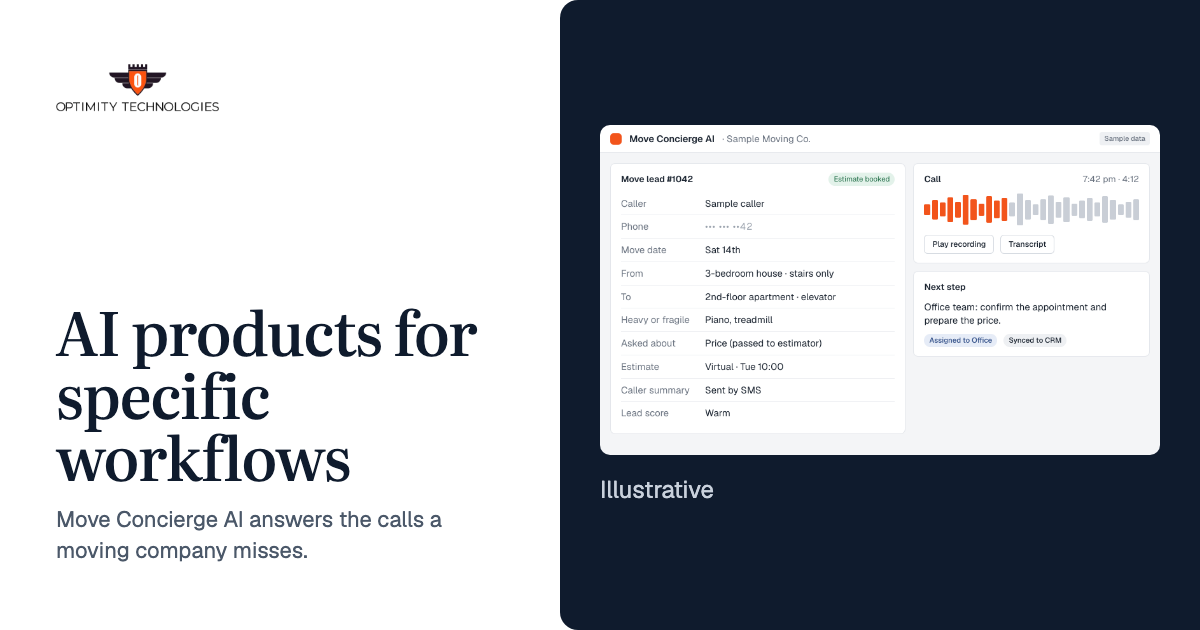
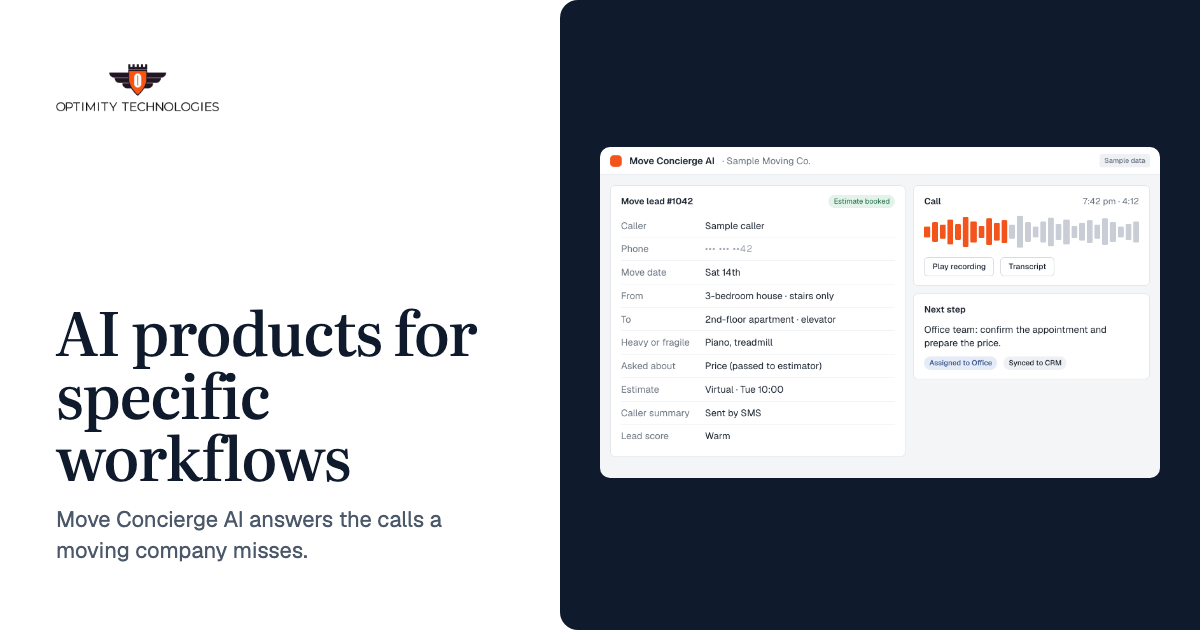
Remove the Illustrative caption from product screens
At Deepak's request. Each sample screen keeps its 'Sample data' tag in
the title bar and its fictional names, and alt text now starts with
'Sample'. DESIGN.md, PLACEHOLDERS.md and llms-full.txt describe the new
labelling; the share image is re-rendered without the caption.

diff --git a/move-concierge.html b/move-concierge.html
@@ -30,7 +30,7 @@
 <link rel="apple-touch-icon" sizes="180x180" href="/apple-touch-icon.png" />
 <link rel="manifest" href="/site.webmanifest" />
 <script>(function(){try{var t=localStorage.getItem("optimity-theme");if(!t&&window.matchMedia&&matchMedia("(prefers-color-scheme: dark)").matches)t="dark";if(t==="dark")document.documentElement.setAttribute("data-theme","dark");}catch(e){}document.documentElement.classList.add("has-js");})();</script>
-<link rel="stylesheet" href="styles.css?v=20261021-p22">
+<link rel="stylesheet" href="styles.css?v=20261021-p23">
 <link rel="alternate" type="text/markdown" title="llms.txt" href="/llms.txt">
 <script type="application/ld+json">
 {
@@ -77,7 +77,7 @@
     <p class="lead"><b>Move Concierge AI<span class="tm">™</span></b> picks up when your team can&rsquo;t: after hours, on weekends and when every line is busy. It takes down the details of the move and passes a complete lead to your staff to follow up.</p>
     <div class="acts"><a class="btn" href="contact.html?demo=move-concierge#book">Book a Move Concierge AI demo</a></div>
   </div>
-  <div class="on-stage"><figure class="shot"><img src="assets/products/placeholders/mc-enquiry-record.png?v=20261021-p22" width="1760" height="1040" alt="Illustrative Move Concierge AI lead record #1042: move date, addresses, access, heavy items, estimate booked for Tuesday 10:00, with the call recording attached." fetchpriority="high" decoding="async"><figcaption>Illustrative</figcaption></figure></div>
+  <div class="on-stage"><figure class="shot"><img src="assets/products/placeholders/mc-enquiry-record.png?v=20261021-p23" width="1760" height="1040" alt="Sample Move Concierge AI lead record #1042: move date, addresses, access, heavy items, estimate booked for Tuesday 10:00, with the call recording attached." fetchpriority="high" decoding="async"></figure></div>
 </header>
 
 <section class="sec facts2" aria-label="Who it is for and the problem">
@@ -96,43 +96,43 @@
     <section class="journey" aria-labelledby="how-h">
       <h2 id="how-h">How it works, from the call to your team</h2>
       <ol class="steps">
-      <li class="step" data-shot="assets/products/placeholders/mc-incoming-call.png?v=20261021-p22" data-alt="Illustrative Move Concierge AI call log for a sample moving company: an after-hours call at 7:42 pm answered by Move Concierge AI." data-cap="Illustrative">
+      <li class="step" data-shot="assets/products/placeholders/mc-incoming-call.png?v=20261021-p23" data-alt="Sample Move Concierge AI call log for a sample moving company: an after-hours call at 7:42 pm answered by Move Concierge AI.">
         <h3>The call comes in</h3>
         <p>On the calls you route to it: after hours, on weekends, or when every line is busy. Callers talk normally and can interrupt.</p>
-        <div class="inline-shot on-stage"><figure class="shot"><img src="assets/products/placeholders/mc-incoming-call.png?v=20261021-p22" width="1440" height="840" alt="Illustrative Move Concierge AI call log for a sample moving company: an after-hours call at 7:42 pm answered by Move Concierge AI." loading="lazy" decoding="async"><figcaption>Illustrative</figcaption></figure></div>
+        <div class="inline-shot on-stage"><figure class="shot"><img src="assets/products/placeholders/mc-incoming-call.png?v=20261021-p23" width="1440" height="840" alt="Sample Move Concierge AI call log for a sample moving company: an after-hours call at 7:42 pm answered by Move Concierge AI." loading="lazy" decoding="async"></figure></div>
       </li>
-      <li class="step" data-shot="assets/products/placeholders/mc-call-transcript.png?v=20261021-p22" data-alt="Illustrative transcript of a sample call: the caller describes a three-bedroom move on the 14th with a piano, and Move Concierge AI offers a virtual estimate instead of quoting a price." data-cap="Illustrative">
+      <li class="step" data-shot="assets/products/placeholders/mc-call-transcript.png?v=20261021-p23" data-alt="Sample transcript of a sample call: the caller describes a three-bedroom move on the 14th with a piano, and Move Concierge AI offers a virtual estimate instead of quoting a price.">
         <h3>It asks about the move</h3>
         <p>Moving date, where from and where to, the size of the home, stairs and elevator access, and large or fragile items such as a piano, artwork, gym equipment or a safe. It doesn&rsquo;t give binding prices or promise dates.</p>
-        <div class="inline-shot on-stage"><figure class="shot"><img src="assets/products/placeholders/mc-call-transcript.png?v=20261021-p22" width="1440" height="800" alt="Illustrative transcript of a sample call: the caller describes a three-bedroom move on the 14th with a piano, and Move Concierge AI offers a virtual estimate instead of quoting a price." loading="lazy" decoding="async"><figcaption>Illustrative</figcaption></figure></div>
+        <div class="inline-shot on-stage"><figure class="shot"><img src="assets/products/placeholders/mc-call-transcript.png?v=20261021-p23" width="1440" height="800" alt="Sample transcript of a sample call: the caller describes a three-bedroom move on the 14th with a piano, and Move Concierge AI offers a virtual estimate instead of quoting a price." loading="lazy" decoding="async"></figure></div>
       </li>
-      <li class="step" data-shot="assets/products/placeholders/mc-enquiry-record.png?v=20261021-p22" data-alt="Illustrative Move Concierge AI lead record #1042: move date, addresses, access, heavy items, estimate booked for Tuesday 10:00, with the call recording attached." data-cap="Illustrative">
+      <li class="step" data-shot="assets/products/placeholders/mc-enquiry-record.png?v=20261021-p23" data-alt="Sample Move Concierge AI lead record #1042: move date, addresses, access, heavy items, estimate booked for Tuesday 10:00, with the call recording attached.">
         <h3>It writes up the lead</h3>
         <p>Contact details and every answer go into one record, with the call recording and transcript attached.</p>
-        <div class="inline-shot on-stage"><figure class="shot"><img src="assets/products/placeholders/mc-enquiry-record.png?v=20261021-p22" width="1760" height="1040" alt="Illustrative Move Concierge AI lead record #1042: move date, addresses, access, heavy items, estimate booked for Tuesday 10:00, with the call recording attached." loading="lazy" decoding="async"><figcaption>Illustrative</figcaption></figure></div>
+        <div class="inline-shot on-stage"><figure class="shot"><img src="assets/products/placeholders/mc-enquiry-record.png?v=20261021-p23" width="1760" height="1040" alt="Sample Move Concierge AI lead record #1042: move date, addresses, access, heavy items, estimate booked for Tuesday 10:00, with the call recording attached." loading="lazy" decoding="async"></figure></div>
       </li>
-      <li class="step" data-shot="assets/products/placeholders/mc-survey-booked.png?v=20261021-p22" data-alt="Illustrative estimator calendar with a virtual estimate booked at 10:00 by Move Concierge AI, and the SMS confirmation sent to the caller." data-cap="Illustrative">
+      <li class="step" data-shot="assets/products/placeholders/mc-survey-booked.png?v=20261021-p23" data-alt="Sample estimator calendar with a virtual estimate booked at 10:00 by Move Concierge AI, and the SMS confirmation sent to the caller.">
         <h3>It books the next step</h3>
         <p>Where you&rsquo;ve set it up, it books a virtual or in-home estimate in your estimators&rsquo; calendar, or schedules a callback, and sends the caller a summary by text message.</p>
-        <div class="inline-shot on-stage"><figure class="shot"><img src="assets/products/placeholders/mc-survey-booked.png?v=20261021-p22" width="1440" height="880" alt="Illustrative estimator calendar with a virtual estimate booked at 10:00 by Move Concierge AI, and the SMS confirmation sent to the caller." loading="lazy" decoding="async"><figcaption>Illustrative</figcaption></figure></div>
+        <div class="inline-shot on-stage"><figure class="shot"><img src="assets/products/placeholders/mc-survey-booked.png?v=20261021-p23" width="1440" height="880" alt="Sample estimator calendar with a virtual estimate booked at 10:00 by Move Concierge AI, and the SMS confirmation sent to the caller." loading="lazy" decoding="async"></figure></div>
       </li>
-      <li class="step" data-shot="assets/products/placeholders/mc-team-handoff.png?v=20261021-p22" data-alt="Illustrative email to the office team with the lead summary and a note that the caller asked about storage, which needs a person." data-cap="Illustrative">
+      <li class="step" data-shot="assets/products/placeholders/mc-team-handoff.png?v=20261021-p23" data-alt="Sample email to the office team with the lead summary and a note that the caller asked about storage, which needs a person.">
         <h3>Your team takes it from there</h3>
         <p>The lead reaches your staff by email or in your moving software or CRM, depending on what we connect at setup. Complaints, unusual requests and anything it can&rsquo;t answer go straight to a person.</p>
-        <div class="inline-shot on-stage"><figure class="shot"><img src="assets/products/placeholders/mc-team-handoff.png?v=20261021-p22" width="1440" height="960" alt="Illustrative email to the office team with the lead summary and a note that the caller asked about storage, which needs a person." loading="lazy" decoding="async"><figcaption>Illustrative</figcaption></figure></div>
+        <div class="inline-shot on-stage"><figure class="shot"><img src="assets/products/placeholders/mc-team-handoff.png?v=20261021-p23" width="1440" height="960" alt="Sample email to the office team with the lead summary and a note that the caller asked about storage, which needs a person." loading="lazy" decoding="async"></figure></div>
       </li>
       </ol>
-      <div class="after step" data-shot="assets/products/placeholders/mc-morning-summary.png?v=20261021-p22" data-alt="Illustrative overnight summary: leads, estimates booked, callbacks due and calls passed to a person, with the list for the morning." data-cap="Illustrative">
+      <div class="after step" data-shot="assets/products/placeholders/mc-morning-summary.png?v=20261021-p23" data-alt="Sample overnight summary: leads, estimates booked, callbacks due and calls passed to a person, with the list for the morning.">
         <h3>What you can see</h3>
         <p>Every call is recorded and transcribed, each lead has a lead score, and a daily summary shows leads, bookings and the callers who still need a call back.</p>
-        <div class="inline-shot on-stage"><figure class="shot"><img src="assets/products/placeholders/mc-morning-summary.png?v=20261021-p22" width="1440" height="920" alt="Illustrative overnight summary: leads, estimates booked, callbacks due and calls passed to a person, with the list for the morning." loading="lazy" decoding="async"><figcaption>Illustrative</figcaption></figure></div>
+        <div class="inline-shot on-stage"><figure class="shot"><img src="assets/products/placeholders/mc-morning-summary.png?v=20261021-p23" width="1440" height="920" alt="Sample overnight summary: leads, estimates booked, callbacks due and calls passed to a person, with the list for the morning." loading="lazy" decoding="async"></figure></div>
         <div class="wont"><b>What it won&rsquo;t do</b>It won&rsquo;t quote a binding price, promise a date or agree to an exception. Those go to your team.</div>
       </div>
       <div class="split-end"></div>
     </section>
   </div>
   <aside class="stage" data-stage aria-label="Product screen for the step you are reading">
-    <figure class="shot"><img src="assets/products/placeholders/mc-incoming-call.png?v=20261021-p22" width="1440" height="840" alt="Illustrative Move Concierge AI call log for a sample moving company: an after-hours call at 7:42 pm answered by Move Concierge AI." loading="lazy" decoding="async"><figcaption>Illustrative</figcaption></figure>
+    <figure class="shot"><img src="assets/products/placeholders/mc-incoming-call.png?v=20261021-p23" width="1440" height="840" alt="Sample Move Concierge AI call log for a sample moving company: an after-hours call at 7:42 pm answered by Move Concierge AI." loading="lazy" decoding="async"></figure>
   </aside>
 </div>
 
@@ -160,8 +160,8 @@
 
 <div id="site-footer"><!--#include virtual="/footer.html" --></div>
 
-<script src="components.js?v=20261021-p22"></script>
-<script src="theme.js?v=20261021-p22"></script>
-<script src="site.js?v=20261021-p22" onerror="document.documentElement.classList.remove('has-js')"></script>
+<script src="components.js?v=20261021-p23"></script>
+<script src="theme.js?v=20261021-p23"></script>
+<script src="site.js?v=20261021-p23" onerror="document.documentElement.classList.remove('has-js')"></script>
 </body>
 </html>

diff --git a/nexus-ai.html b/nexus-ai.html
@@ -30,7 +30,7 @@
 <link rel="apple-touch-icon" sizes="180x180" href="/apple-touch-icon.png" />
 <link rel="manifest" href="/site.webmanifest" />
 <script>(function(){try{var t=localStorage.getItem("optimity-theme");if(!t&&window.matchMedia&&matchMedia("(prefers-color-scheme: dark)").matches)t="dark";if(t==="dark")document.documentElement.setAttribute("data-theme","dark");}catch(e){}document.documentElement.classList.add("has-js");})();</script>
-<link rel="stylesheet" href="styles.css?v=20261021-p22">
+<link rel="stylesheet" href="styles.css?v=20261021-p23">
 <link rel="alternate" type="text/markdown" title="llms.txt" href="/llms.txt">
 <script type="application/ld+json">
 {
@@ -77,7 +77,7 @@
     <p class="lead">With <b>Nexus AI<span class="tm">™</span></b>, your team asks a question and gets the answer from your ERP, CRM, databases or documents, with the source shown. It sits on top of the systems you already run.</p>
     <div class="acts"><a class="btn" href="contact.html?demo=nexus-ai#book">Book a Nexus AI demo</a></div>
   </div>
-  <div class="on-stage"><figure class="shot"><img src="assets/products/placeholders/nexus-answer-table.png?v=20261021-p22" width="1440" height="1000" alt="Illustrative Nexus AI answer to ‘Which invoices are more than 30 days overdue?’ from ERPNext, as a table and a chart." fetchpriority="high" decoding="async"><figcaption>Illustrative</figcaption></figure></div>
+  <div class="on-stage"><figure class="shot"><img src="assets/products/placeholders/nexus-answer-table.png?v=20261021-p23" width="1440" height="1000" alt="Sample Nexus AI answer to ‘Which invoices are more than 30 days overdue?’ from ERPNext, as a table and a chart." fetchpriority="high" decoding="async"></figure></div>
 </header>
 
 <section class="sec facts2" aria-label="Who it is for and the problem">
@@ -104,19 +104,19 @@
       <div class="tabpanel on" id="panel-ops" role="tabpanel" aria-labelledby="tab-ops">
         <h3>Questions about orders, invoices, inventory and pipeline</h3>
         <p>Two-way access to sales pipelines, inventory, invoices and purchase orders, with summaries such as unfulfilled orders and overdue invoices, and charts inside the conversation.</p>
-        <div class="on-stage"><figure class="shot"><img src="assets/products/placeholders/nexus-answer-table.png?v=20261021-p22" width="1440" height="1000" alt="Illustrative Nexus AI answer to ‘Which invoices are more than 30 days overdue?’ from ERPNext, as a table and a chart." loading="lazy" decoding="async"><figcaption>Illustrative</figcaption></figure></div>
+        <div class="on-stage"><figure class="shot"><img src="assets/products/placeholders/nexus-answer-table.png?v=20261021-p23" width="1440" height="1000" alt="Sample Nexus AI answer to ‘Which invoices are more than 30 days overdue?’ from ERPNext, as a table and a chart." loading="lazy" decoding="async"></figure></div>
         <ul><li>Live connectors for ERPNext, Odoo and HubSpot</li><li>Bar, line, pie and donut charts generated in the conversation</li><li>Cross-system reconciliation and operational alerts</li></ul>
       </div>
       <div class="tabpanel" id="panel-doc" role="tabpanel" aria-labelledby="tab-doc">
         <h3>Questions across documents, contracts and reports</h3>
         <p>Answers from your knowledge base, PDFs, spreadsheets, operating procedures and compliance documents, each with the passage it came from.</p>
-        <div class="on-stage"><figure class="shot"><img src="assets/products/placeholders/nexus-doc-answer.png?v=20261021-p22" width="1440" height="640" alt="Illustrative Nexus AI answer about late payment terms, with the cited passage from a sample supplier agreement." loading="lazy" decoding="async"><figcaption>Illustrative</figcaption></figure></div>
+        <div class="on-stage"><figure class="shot"><img src="assets/products/placeholders/nexus-doc-answer.png?v=20261021-p23" width="1440" height="640" alt="Sample Nexus AI answer about late payment terms, with the cited passage from a sample supplier agreement." loading="lazy" decoding="async"></figure></div>
         <ul><li>Semantic search (RAG) on Qdrant</li><li>Citations with the source snippet, so every answer can be checked</li><li>A separate knowledge base for each team or organization</li></ul>
       </div>
       <div class="tabpanel" id="panel-sql" role="tabpanel" aria-labelledby="tab-sql">
         <h3>Plain English to SQL, for people who don&rsquo;t write SQL</h3>
         <p>Executives and operations managers query production PostgreSQL databases in plain English. Queries run in strict read-only sandboxes, and results can be sorted and exported.</p>
-        <div class="on-stage"><p class="note" style="color:var(--stage-muted)">Example query, illustrative</p><pre class="code"><code>SELECT count(*) FROM (
+        <div class="on-stage"><p class="note" style="color:var(--stage-muted)">Example query</p><pre class="code"><code>SELECT count(*) FROM (
   SELECT customer_id FROM orders
   WHERE created_at &gt;= date_trunc('quarter', now())
   GROUP BY customer_id HAVING count(*) &gt; 1
@@ -149,8 +149,8 @@
 
 <div id="site-footer"><!--#include virtual="/footer.html" --></div>
 
-<script src="components.js?v=20261021-p22"></script>
-<script src="theme.js?v=20261021-p22"></script>
-<script src="site.js?v=20261021-p22" onerror="document.documentElement.classList.remove('has-js')"></script>
+<script src="components.js?v=20261021-p23"></script>
+<script src="theme.js?v=20261021-p23"></script>
+<script src="site.js?v=20261021-p23" onerror="document.documentElement.classList.remove('has-js')"></script>
 </body>
 </html>

diff --git a/index.html b/index.html
@@ -30,7 +30,7 @@
 <link rel="apple-touch-icon" sizes="180x180" href="/apple-touch-icon.png" />
 <link rel="manifest" href="/site.webmanifest" />
 <script>(function(){try{var t=localStorage.getItem("optimity-theme");if(!t&&window.matchMedia&&matchMedia("(prefers-color-scheme: dark)").matches)t="dark";if(t==="dark")document.documentElement.setAttribute("data-theme","dark");}catch(e){}document.documentElement.classList.add("has-js");})();</script>
-<link rel="stylesheet" href="styles.css?v=20261021-p22">
+<link rel="stylesheet" href="styles.css?v=20261021-p23">
 <link rel="alternate" type="text/markdown" title="llms.txt" href="/llms.txt">
 <script type="application/ld+json">
 {
@@ -126,7 +126,7 @@
       <p class="desc">Move Concierge AI picks up those calls, asks what your estimator would ask, books the estimate or a callback where you&rsquo;ve set it up, and has a complete lead waiting for your team in the morning. Complaints and anything unusual go to a person.</p>
       <div class="acts"><a class="btn" href="contact.html?demo=move-concierge#book">Book a Move Concierge AI demo</a><a class="tlink" href="move-concierge.html">See how it works</a></div>
     </div>
-    <div class="on-stage"><figure class="shot"><img src="assets/products/placeholders/mc-call-transcript.png?v=20261021-p22" width="1440" height="800" alt="Illustrative transcript of a sample call: the caller describes a three-bedroom move on the 14th with a piano, and Move Concierge AI offers a virtual estimate instead of quoting a price." loading="lazy" decoding="async"><figcaption>Illustrative</figcaption></figure></div>
+    <div class="on-stage"><figure class="shot"><img src="assets/products/placeholders/mc-call-transcript.png?v=20261021-p23" width="1440" height="800" alt="Sample transcript of a sample call: the caller describes a three-bedroom move on the 14th with a piano, and Move Concierge AI offers a virtual estimate instead of quoting a price." loading="lazy" decoding="async"></figure></div>
   </article>
   <article class="prod-row flip" id="p-pc" aria-labelledby="p-pc-h">
     <div>
@@ -135,7 +135,7 @@
       <p class="desc">A buyer fills in the form on your listing while your agents are at open houses. Property Connect AI calls them back, checks budget, pre-approval and timeline, books the tour in your agent&rsquo;s calendar, and hands serious buyers to an agent after a short private briefing.</p>
       <div class="acts"><a class="btn" href="contact.html?demo=property-connect#book">Book a Property Connect AI demo</a><a class="tlink" href="property-connect.html">See how it works</a></div>
     </div>
-    <div class="on-stage"><figure class="shot"><img src="assets/products/placeholders/pc-tour-briefing.png?v=20261021-p22" width="1440" height="760" alt="Illustrative private briefing the agent hears before the buyer joins the call, and the tour details." loading="lazy" decoding="async"><figcaption>Illustrative</figcaption></figure></div>
+    <div class="on-stage"><figure class="shot"><img src="assets/products/placeholders/pc-tour-briefing.png?v=20261021-p23" width="1440" height="760" alt="Sample private briefing the agent hears before the buyer joins the call, and the tour details." loading="lazy" decoding="async"></figure></div>
   </article>
   <article class="prod-row" id="p-nx" aria-labelledby="p-nx-h">
     <div>
@@ -144,7 +144,7 @@
       <p class="desc">&ldquo;Which customers have an overdue invoice and an open order?&rdquo; Nexus AI answers from ERPNext, Odoo, HubSpot, PostgreSQL and your documents, and shows where each answer came from. It acts only where you have approved it.</p>
       <div class="acts"><a class="btn" href="contact.html?demo=nexus-ai#book">Book a Nexus AI demo</a><a class="tlink" href="nexus-ai.html">See how it works</a></div>
     </div>
-    <div class="on-stage"><figure class="shot"><img src="assets/products/placeholders/nexus-doc-answer.png?v=20261021-p22" width="1440" height="640" alt="Illustrative Nexus AI answer about late payment terms, with the cited passage from a sample supplier agreement." loading="lazy" decoding="async"><figcaption>Illustrative</figcaption></figure></div>
+    <div class="on-stage"><figure class="shot"><img src="assets/products/placeholders/nexus-doc-answer.png?v=20261021-p23" width="1440" height="640" alt="Sample Nexus AI answer about late payment terms, with the cited passage from a sample supplier agreement." loading="lazy" decoding="async"></figure></div>
   </article>
 </section>
 
@@ -186,8 +186,8 @@
 
 <div id="site-footer"><!--#include virtual="/footer.html" --></div>
 
-<script src="components.js?v=20261021-p22"></script>
-<script src="theme.js?v=20261021-p22"></script>
-<script src="site.js?v=20261021-p22" onerror="document.documentElement.classList.remove('has-js')"></script>
+<script src="components.js?v=20261021-p23"></script>
+<script src="theme.js?v=20261021-p23"></script>
+<script src="site.js?v=20261021-p23" onerror="document.documentElement.classList.remove('has-js')"></script>
 </body>
 </html>

diff --git a/products.html b/products.html
@@ -30,7 +30,7 @@
 <link rel="apple-touch-icon" sizes="180x180" href="/apple-touch-icon.png" />
 <link rel="manifest" href="/site.webmanifest" />
 <script>(function(){try{var t=localStorage.getItem("optimity-theme");if(!t&&window.matchMedia&&matchMedia("(prefers-color-scheme: dark)").matches)t="dark";if(t==="dark")document.documentElement.setAttribute("data-theme","dark");}catch(e){}document.documentElement.classList.add("has-js");})();</script>
-<link rel="stylesheet" href="styles.css?v=20261021-p22">
+<link rel="stylesheet" href="styles.css?v=20261021-p23">
 <link rel="alternate" type="text/markdown" title="llms.txt" href="/llms.txt">
 <script type="application/ld+json">
 {
@@ -127,7 +127,7 @@
       <p class="desc">Answers the inbound and after-hours calls you route to it, asks about the move, writes up the lead, books an estimate or callback where you&rsquo;ve set it up, and passes it to your team to follow up.</p>
       <div class="acts"><a class="btn" href="contact.html?demo=move-concierge#book">Book a Move Concierge AI demo</a><a class="tlink" href="move-concierge.html">How it works</a></div>
     </div>
-    <div class="on-stage"><figure class="shot"><img src="assets/products/placeholders/mc-enquiry-record.png?v=20261021-p22" width="1760" height="1040" alt="Illustrative Move Concierge AI lead record #1042: move date, addresses, access, heavy items, estimate booked for Tuesday 10:00, with the call recording attached." loading="lazy" decoding="async"><figcaption>Illustrative</figcaption></figure></div>
+    <div class="on-stage"><figure class="shot"><img src="assets/products/placeholders/mc-enquiry-record.png?v=20261021-p23" width="1760" height="1040" alt="Sample Move Concierge AI lead record #1042: move date, addresses, access, heavy items, estimate booked for Tuesday 10:00, with the call recording attached." loading="lazy" decoding="async"></figure></div>
   </article>
   <article class="prod-row flip">
     <div>
@@ -136,7 +136,7 @@
       <p class="desc">Calls new web leads back within a minute, qualifies on budget, pre-approval and timeline, books tours and hands serious buyers to an agent.</p>
       <div class="acts"><a class="tlink" href="contact.html?demo=property-connect#book">Book a Property Connect AI demo</a><a class="tlink" href="property-connect.html">How it works</a></div>
     </div>
-    <div class="on-stage"><figure class="shot"><img src="assets/products/placeholders/pc-lead-record.png?v=20261021-p22" width="1440" height="880" alt="Illustrative Property Connect AI web lead: called back 37 seconds after the form, pre-approved, three-month timeline, tour booked for Saturday 11:00." loading="lazy" decoding="async"><figcaption>Illustrative</figcaption></figure></div>
+    <div class="on-stage"><figure class="shot"><img src="assets/products/placeholders/pc-lead-record.png?v=20261021-p23" width="1440" height="880" alt="Sample Property Connect AI web lead: called back 37 seconds after the form, pre-approved, three-month timeline, tour booked for Saturday 11:00." loading="lazy" decoding="async"></figure></div>
   </article>
   <article class="prod-row small">
     <div>
@@ -145,7 +145,7 @@
       <p class="desc">Plain-English questions across ERPNext, Odoo, HubSpot, PostgreSQL and your documents, with the source of each answer shown.</p>
       <div class="acts"><a class="tlink" href="contact.html?demo=nexus-ai#book">Book a Nexus AI demo</a><a class="tlink" href="nexus-ai.html">How it works</a></div>
     </div>
-    <div class="on-stage"><figure class="shot"><img src="assets/products/placeholders/nexus-answer-table.png?v=20261021-p22" width="1440" height="1000" alt="Illustrative Nexus AI answer to ‘Which invoices are more than 30 days overdue?’ from ERPNext, as a table and a chart." loading="lazy" decoding="async"><figcaption>Illustrative</figcaption></figure></div>
+    <div class="on-stage"><figure class="shot"><img src="assets/products/placeholders/nexus-answer-table.png?v=20261021-p23" width="1440" height="1000" alt="Sample Nexus AI answer to ‘Which invoices are more than 30 days overdue?’ from ERPNext, as a table and a chart." loading="lazy" decoding="async"></figure></div>
   </article>
 </section>
 
@@ -157,8 +157,8 @@
 
 <div id="site-footer"><!--#include virtual="/footer.html" --></div>
 
-<script src="components.js?v=20261021-p22"></script>
-<script src="theme.js?v=20261021-p22"></script>
-<script src="site.js?v=20261021-p22" onerror="document.documentElement.classList.remove('has-js')"></script>
+<script src="components.js?v=20261021-p23"></script>
+<script src="theme.js?v=20261021-p23"></script>
+<script src="site.js?v=20261021-p23" onerror="document.documentElement.classList.remove('has-js')"></script>
 </body>
 </html>

diff --git a/property-connect.html b/property-connect.html
@@ -30,7 +30,7 @@
 <link rel="apple-touch-icon" sizes="180x180" href="/apple-touch-icon.png" />
 <link rel="manifest" href="/site.webmanifest" />
 <script>(function(){try{var t=localStorage.getItem("optimity-theme");if(!t&&window.matchMedia&&matchMedia("(prefers-color-scheme: dark)").matches)t="dark";if(t==="dark")document.documentElement.setAttribute("data-theme","dark");}catch(e){}document.documentElement.classList.add("has-js");})();</script>
-<link rel="stylesheet" href="styles.css?v=20261021-p22">
+<link rel="stylesheet" href="styles.css?v=20261021-p23">
 <link rel="alternate" type="text/markdown" title="llms.txt" href="/llms.txt">
 <script type="application/ld+json">
 {
@@ -77,7 +77,7 @@
     <p class="lead"><b>Property Connect AI<span class="tm">™</span></b> calls new web leads back within a minute, checks budget, pre-approval and timeline, books tours in your agents&rsquo; calendars, and hands serious buyers to an agent after a short private briefing.</p>
     <div class="acts"><a class="btn" href="contact.html?demo=property-connect#book">Book a Property Connect AI demo</a></div>
   </div>
-  <div class="on-stage"><figure class="shot"><img src="assets/products/placeholders/pc-lead-record.png?v=20261021-p22" width="1440" height="880" alt="Illustrative Property Connect AI web lead: called back 37 seconds after the form, pre-approved, three-month timeline, tour booked for Saturday 11:00." fetchpriority="high" decoding="async"><figcaption>Illustrative</figcaption></figure></div>
+  <div class="on-stage"><figure class="shot"><img src="assets/products/placeholders/pc-lead-record.png?v=20261021-p23" width="1440" height="880" alt="Sample Property Connect AI web lead: called back 37 seconds after the form, pre-approved, three-month timeline, tour booked for Saturday 11:00." fetchpriority="high" decoding="async"></figure></div>
 </header>
 
 <section class="sec facts2" aria-label="Who it is for and the problem">
@@ -100,10 +100,10 @@
     <li class="key"><span class="at">10:06</span><span>It checks budget, pre-approval and timeline, briefs the agent privately, then joins the buyer to the call.</span></li>
     <li><span class="at">Sat 11:00</span><span>The tour is booked, and the buyer gets an SMS invite with directions and the agent&rsquo;s contact card.</span></li>
   </ol>
-  <p class="note sub">A sample lead. Times are illustrative.</p>
+  <p class="note sub">A sample lead. Times are examples.</p>
   <div class="pair">
-    <div class="on-stage"><figure class="shot"><img src="assets/products/placeholders/pc-lead-record.png?v=20261021-p22" width="1440" height="880" alt="Illustrative Property Connect AI web lead: called back 37 seconds after the form, pre-approved, three-month timeline, tour booked for Saturday 11:00." loading="lazy" decoding="async"><figcaption>Illustrative</figcaption></figure></div>
-    <div class="on-stage"><figure class="shot"><img src="assets/products/placeholders/pc-tour-briefing.png?v=20261021-p22" width="1440" height="760" alt="Illustrative private briefing the agent hears before the buyer joins the call, and the tour details." loading="lazy" decoding="async"><figcaption>Illustrative</figcaption></figure></div>
+    <div class="on-stage"><figure class="shot"><img src="assets/products/placeholders/pc-lead-record.png?v=20261021-p23" width="1440" height="880" alt="Sample Property Connect AI web lead: called back 37 seconds after the form, pre-approved, three-month timeline, tour booked for Saturday 11:00." loading="lazy" decoding="async"></figure></div>
+    <div class="on-stage"><figure class="shot"><img src="assets/products/placeholders/pc-tour-briefing.png?v=20261021-p23" width="1440" height="760" alt="Sample private briefing the agent hears before the buyer joins the call, and the tour details." loading="lazy" decoding="async"></figure></div>
   </div>
   <div class="wont"><b>What stays with your agents</b>Offers, negotiation and anything outside the agreed questions. Optimity maintains the call script and reviews it against fair-housing guidelines, and every call is recorded and transcribed.</div>
 </section>
@@ -125,8 +125,8 @@
 
 <div id="site-footer"><!--#include virtual="/footer.html" --></div>
 
-<script src="components.js?v=20261021-p22"></script>
-<script src="theme.js?v=20261021-p22"></script>
-<script src="site.js?v=20261021-p22" onerror="document.documentElement.classList.remove('has-js')"></script>
+<script src="components.js?v=20261021-p23"></script>
+<script src="theme.js?v=20261021-p23"></script>
+<script src="site.js?v=20261021-p23" onerror="document.documentElement.classList.remove('has-js')"></script>
 </body>
 </html>

diff --git a/about.html b/about.html
@@ -30,7 +30,7 @@
 <link rel="apple-touch-icon" sizes="180x180" href="/apple-touch-icon.png" />
 <link rel="manifest" href="/site.webmanifest" />
 <script>(function(){try{var t=localStorage.getItem("optimity-theme");if(!t&&window.matchMedia&&matchMedia("(prefers-color-scheme: dark)").matches)t="dark";if(t==="dark")document.documentElement.setAttribute("data-theme","dark");}catch(e){}document.documentElement.classList.add("has-js");})();</script>
-<link rel="stylesheet" href="styles.css?v=20261021-p22">
+<link rel="stylesheet" href="styles.css?v=20261021-p23">
 <link rel="alternate" type="text/markdown" title="llms.txt" href="/llms.txt">
 <script type="application/ld+json">
 {
@@ -152,8 +152,8 @@
 
 <div id="site-footer"><!--#include virtual="/footer.html" --></div>
 
-<script src="components.js?v=20261021-p22"></script>
-<script src="theme.js?v=20261021-p22"></script>
-<script src="site.js?v=20261021-p22" onerror="document.documentElement.classList.remove('has-js')"></script>
+<script src="components.js?v=20261021-p23"></script>
+<script src="theme.js?v=20261021-p23"></script>
+<script src="site.js?v=20261021-p23" onerror="document.documentElement.classList.remove('has-js')"></script>
 </body>
 </html>

diff --git a/contact.html b/contact.html
@@ -30,7 +30,7 @@
 <link rel="apple-touch-icon" sizes="180x180" href="/apple-touch-icon.png" />
 <link rel="manifest" href="/site.webmanifest" />
 <script>(function(){try{var t=localStorage.getItem("optimity-theme");if(!t&&window.matchMedia&&matchMedia("(prefers-color-scheme: dark)").matches)t="dark";if(t==="dark")document.documentElement.setAttribute("data-theme","dark");}catch(e){}document.documentElement.classList.add("has-js");})();</script>
-<link rel="stylesheet" href="styles.css?v=20261021-p22">
+<link rel="stylesheet" href="styles.css?v=20261021-p23">
 <link rel="alternate" type="text/markdown" title="llms.txt" href="/llms.txt">
 <script type="application/ld+json">
 {
@@ -137,8 +137,8 @@
 
 <div id="site-footer"><!--#include virtual="/footer.html" --></div>
 
-<script src="components.js?v=20261021-p22"></script>
-<script src="theme.js?v=20261021-p22"></script>
-<script src="site.js?v=20261021-p22" onerror="document.documentElement.classList.remove('has-js')"></script>
+<script src="components.js?v=20261021-p23"></script>
+<script src="theme.js?v=20261021-p23"></script>
+<script src="site.js?v=20261021-p23" onerror="document.documentElement.classList.remove('has-js')"></script>
 </body>
 </html>

diff --git a/custom-ai-systems.html b/custom-ai-systems.html
@@ -30,7 +30,7 @@
 <link rel="apple-touch-icon" sizes="180x180" href="/apple-touch-icon.png" />
 <link rel="manifest" href="/site.webmanifest" />
 <script>(function(){try{var t=localStorage.getItem("optimity-theme");if(!t&&window.matchMedia&&matchMedia("(prefers-color-scheme: dark)").matches)t="dark";if(t==="dark")document.documentElement.setAttribute("data-theme","dark");}catch(e){}document.documentElement.classList.add("has-js");})();</script>
-<link rel="stylesheet" href="styles.css?v=20261021-p22">
+<link rel="stylesheet" href="styles.css?v=20261021-p23">
 <link rel="alternate" type="text/markdown" title="llms.txt" href="/llms.txt">
 <script type="application/ld+json">
 {
@@ -110,8 +110,8 @@
 
 <div id="site-footer"><!--#include virtual="/footer.html" --></div>
 
-<script src="components.js?v=20261021-p22"></script>
-<script src="theme.js?v=20261021-p22"></script>
-<script src="site.js?v=20261021-p22" onerror="document.documentElement.classList.remove('has-js')"></script>
+<script src="components.js?v=20261021-p23"></script>
+<script src="theme.js?v=20261021-p23"></script>
+<script src="site.js?v=20261021-p23" onerror="document.documentElement.classList.remove('has-js')"></script>
 </body>
 </html>

diff --git a/styles.css b/styles.css
@@ -136,7 +136,7 @@ footer.site :focus-visible { outline-color: var(--stage-ink); }
 .split > .copy { padding: 0 clamp(28px, 4vw, 72px) 0 var(--m); min-width: 0; }
 .split > .stage { --stage-pad: clamp(24px, 2.6vw, 44px); position: sticky; top: calc(var(--bar-h) + 24px); margin: 24px var(--m) 0 0; background: var(--stage); border-radius: var(--r-stage); padding: var(--stage-pad); overflow: hidden; }
 /* The stage is sized to the screen it shows, and the whole screen is visible. The caption sits above it; on a
-   very short window the screen is capped to fit (cropped from the bottom), so "Illustrative" is never clipped. */
+   very short window the screen is capped to fit (cropped from the bottom). */
 .stage .shot { width: 100%; display: flex; flex-direction: column-reverse; }
 .stage .shot figcaption { margin: 0 0 10px; }
 .stage .shot img { border-radius: 10px; max-height: calc(100svh - var(--bar-h) - 48px - 2 * var(--stage-pad) - 36px); object-fit: cover; object-position: left top; transition: opacity 160ms var(--ease); }

diff --git a/assets/og-src/og-image.html b/assets/og-src/og-image.html
@@ -15,5 +15,5 @@ p{font-size:22px;line-height:1.4;color:#4B5869;margin-top:18px}
 .r span{display:block;color:#C9D1DC;font-size:24px;margin-top:14px}
 </style></head><body>
 <div class="l"><img src="../../logo_lightmode.png" alt=""><div><h1>AI products for specific workflows</h1><p>Move Concierge AI answers the calls a moving company misses.</p></div></div>
-<div class="r"><div><img src="../products/placeholders/mc-enquiry-record.png" alt=""><span>Illustrative</span></div></div>
+<div class="r"><div><img src="../products/placeholders/mc-enquiry-record.png" alt=""></div></div>
 </body></html>

diff --git a/site.js b/site.js
@@ -27,8 +27,8 @@
         img.src = step.getAttribute('data-shot');
         img.alt = step.getAttribute('data-alt') || '';
         if (cap) {
-          // An empty data-cap means a real screenshot: no caption. A missing one keeps "Illustrative".
-          var text = step.hasAttribute('data-cap') ? step.getAttribute('data-cap') : 'Illustrative';
+          // A step can carry its own caption in data-cap; without one the caption stays empty.
+          var text = step.getAttribute('data-cap') || '';
           cap.textContent = text;
           cap.hidden = !text;
         }

diff --git a/components.js b/components.js
@@ -49,7 +49,7 @@
       if (callback) callback();
       return;
     }
-    fetch(file + '?v=20261021-p22')
+    fetch(file + '?v=20261021-p23')
       .then(function(res) {
         if (!res.ok) throw new Error('Failed to load ' + file);
         return res.text();
